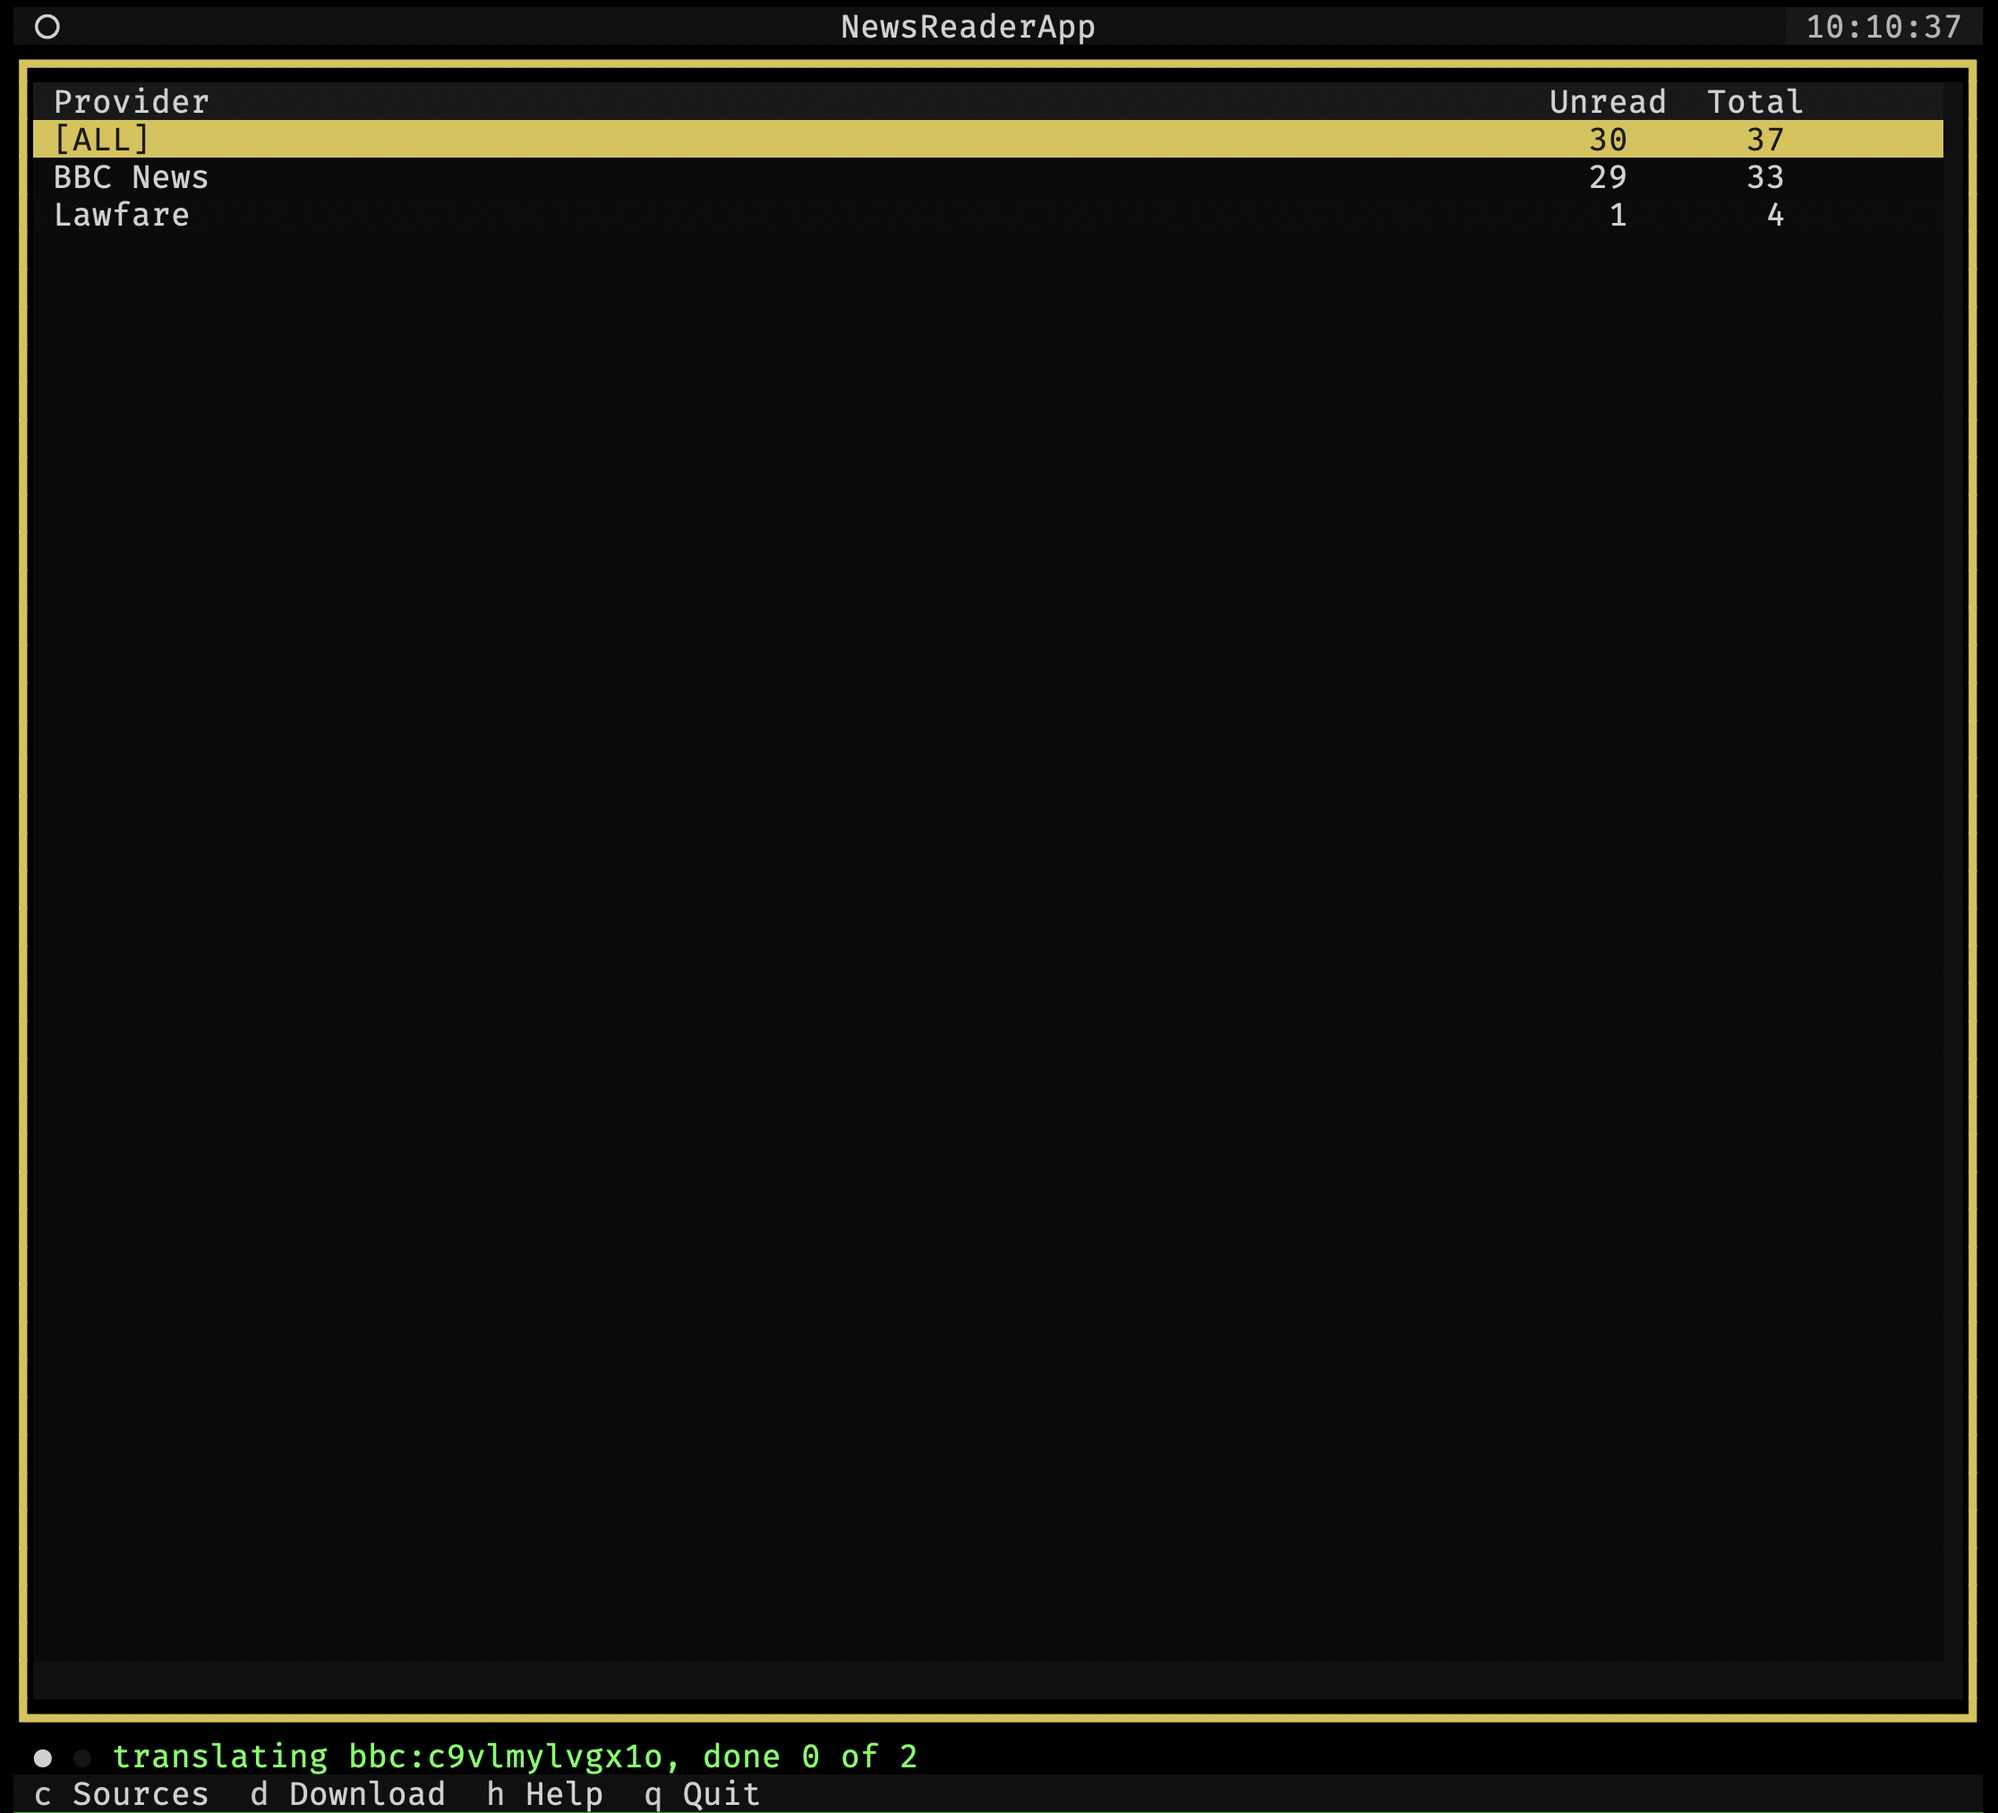
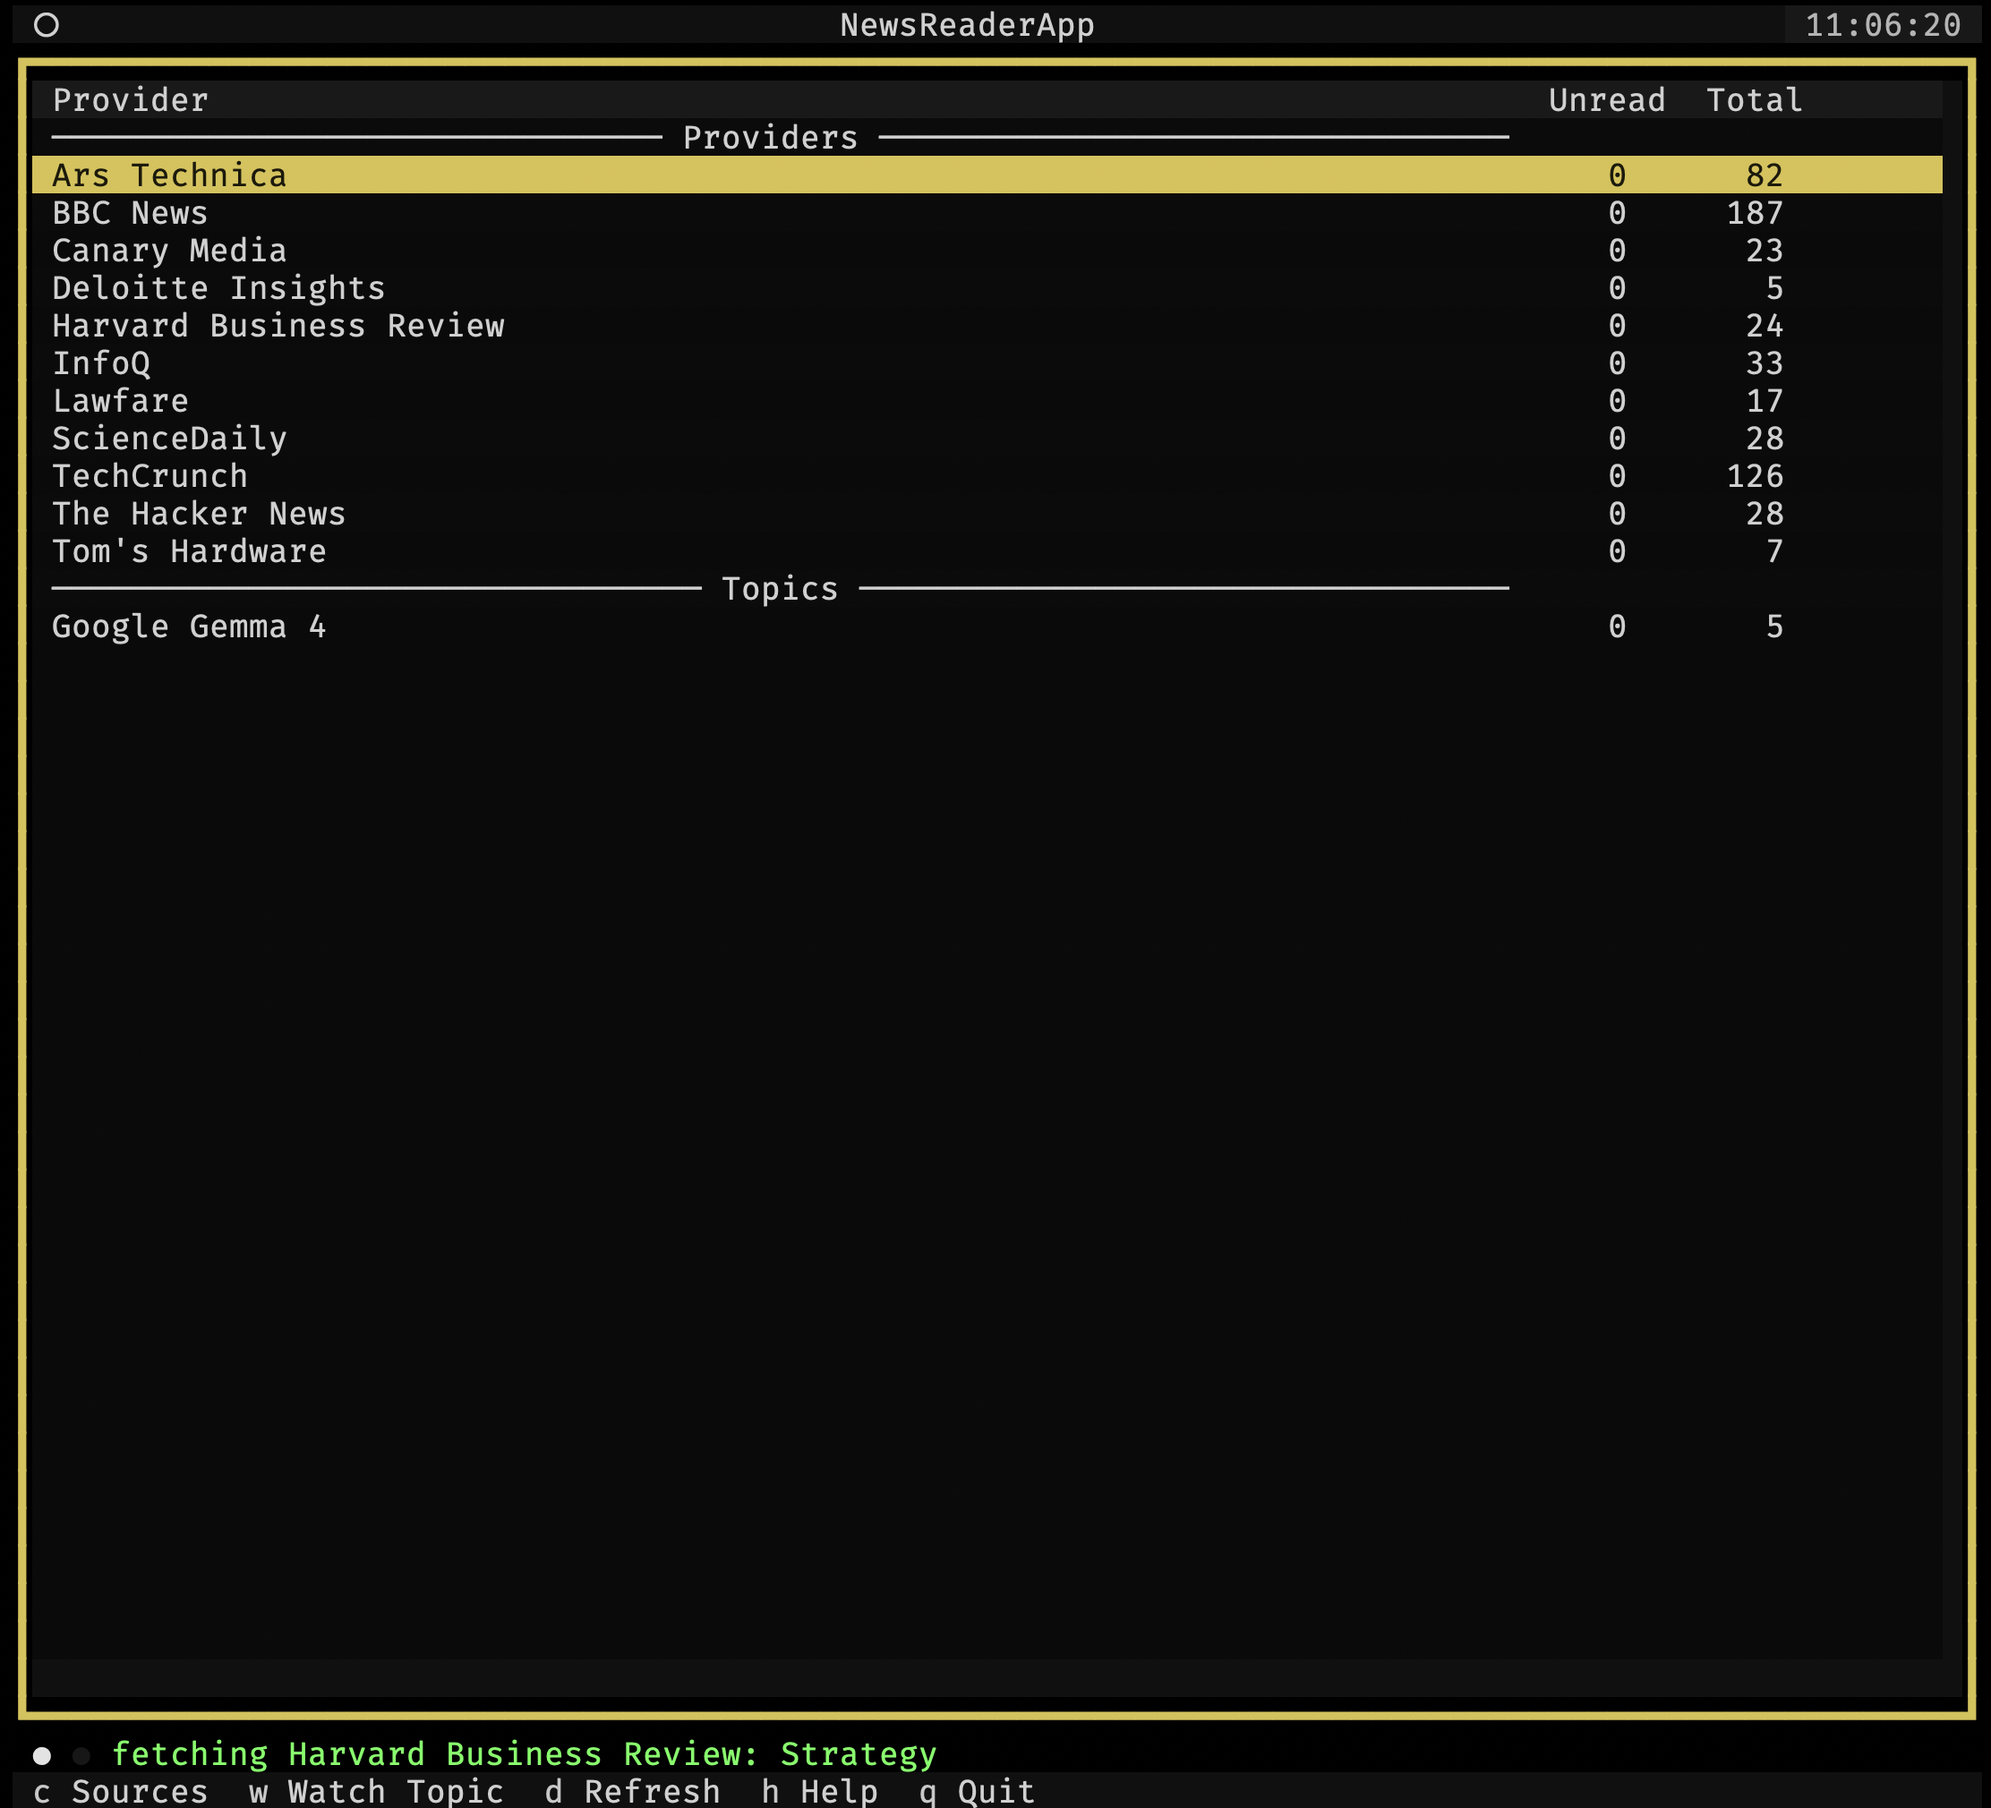
docs

diff --git a/docs/architecture.md b/docs/architecture.md
@@ -18,8 +18,8 @@ NewsR is a single-process local terminal application. It runs from the repositor
 - `newsr.export`: Markdown and PNG export services plus clipboard integration
 - `newsr.storage`: SQLite connection, schema setup, article persistence, provider/target persistence, permanent duplicate-id tracking, scoped reader state, and single-row global options. The `NewsStorage` facade delegates article methods to `ArticleStore` via `__getattr__` and defines provider, reader-state, options, and lifecycle methods explicitly.
 - `newsr.pipeline`: refresh orchestration that runs a scoped provider set, stores source content, classifies article categories, then runs translation and summary jobs
-- `newsr.ui`: the Textual app, themes, controllers, and modal screens for help, sources, quick navigation, export, article Q&A, open-link confirmation, and "more info"
-- `newsr.ui.controllers`: controller objects that encapsulate feature-specific state and logic — article Q&A, "more info", article rendering, navigation, provider home management, watched-topic creation, and background refresh — keeping the main `NewsReaderApp` class thin with forwarding methods
+- `newsr.ui`: the Textual app, themes, provider-home table, and modal screens for help, sources, quick navigation, export, article Q&A, watched-topic creation, open-link confirmation, retry/confirm prompts, free-text input, and "more info"
+- `newsr.ui.controllers`: controller objects that encapsulate feature-specific state and logic for article Q&A, article categorization, article rendering, navigation, provider home management, watched-topic creation, export, and background refresh, while the main `NewsReaderApp` stays focused on widget composition, thin forwarding methods for bindings/screen callbacks, `refresh_view()`, and lifecycle cleanup
 
 All network-facing providers use `cancellable_read` from `newsr.cancellation` for chunked HTTP reads with cooperative cancellation support.
 
@@ -28,8 +28,8 @@ Provider catalogs are not uniform. See [Current Providers](current_providers.md)
 ## Runtime Flow
 
 1. `newsr.app.main` first patches missing `ui.locale` into existing `newsr.yml` files when needed, then runs interactive first-run bootstrap only when `newsr.yml` does not exist yet.
-2. `NewsReaderApp` opens `cache/newsr.sqlite3`, initializes schema, builds the built-in HTTP provider registry, syncs built-in provider rows into SQLite, and rebuilds the live provider registry by adding any stored watched-topic providers.
-3. Bootstrap enables `bbc` by default and seeds each built-in provider's initial selected targets from `default_targets()`. Watched-topic providers are stored in SQLite as `provider_type = "topic"` rows with a single `watch` target that carries the saved topic query.
+2. `NewsReaderApp` opens `cache/newsr.sqlite3`, initializes schema, builds the built-in HTTP provider registry, and calls the provider-home bootstrap controller, which syncs built-in provider rows into SQLite and seeds provider targets when a provider has not been initialized yet.
+3. Bootstrap enables `bbc` by default and seeds each built-in provider's initial selected targets from `default_targets()`. Watched-topic providers are stored in SQLite as `provider_type = "topic"` rows with a single `watch` target that carries the saved topic query, and `rebuild_provider_registry()` adds them back into the live in-memory registry on startup.
 4. Startup prunes expired articles, restores the selected theme from global options, restores the `[ALL]` reader scope, loads cached articles, and opens the provider home as the app's home screen with enabled providers sorted by `ui.provider_sort`; the `[ALL]` row is included there when `ui.show-all` is `true`.
 5. The app starts a minute-based scheduler loop. When no refresh or LLM preflight is already running, the scheduler selects enabled providers whose effective cron schedule is due. `[ALL]` is a synthetic `provider_type = "all"` scope and is never selected as a real refresh target.
 6. Before each refresh session begins, the refresh controller sends a lightweight responsiveness probe to the configured LLM endpoint. If the probe fails, the UI shows a localized retry dialog and only starts the scoped refresh pipeline after the probe succeeds. The pipeline then walks the selected providers and their selected targets from SQLite, fetches candidates, skips article ids already present in the permanent duplicate table, extracts article bodies, stores source content, classifies each article into zero or more fixed app categories through the configured translation-model endpoint, translates both titles and bodies, generates summaries, and only then marks the article id as permanently known. Each article gets a single `articles.timeout` budget that covers fetch and all LLM stages. When that budget is exceeded, NewsR logs the timeout, deletes the partial article row, records the failed job state, and marks the article id as known. Permanent fetch-validation failures also mark the id as known.
@@ -42,7 +42,7 @@ Provider catalogs are not uniform. See [Current Providers](current_providers.md)
 
 ## Local State
 
-- `newsr.yml`: user config for refresh limits including `articles.timeout`, default provider update schedule, LLM endpoint/model settings, translation language, UI locale (`en` or `ru`), `[ALL]` provider-home visibility (`ui.show-all = true|false`), provider-home sorting (`ui.provider_sort.primary = unread|name`, `ui.provider_sort.direction = asc|desc`), and export quality
+- `newsr.yml`: user config for refresh limits including `articles.timeout`, default provider update schedule, LLM endpoint/model settings plus `llm.request_retries`, translation language, UI locale (`en` or `ru`), `[ALL]` provider-home visibility (`ui.show-all = true|false`), provider-home sorting (`ui.provider_sort.primary = unread|name`, `ui.provider_sort.direction = asc|desc`), and export image quality (`hd` or `fhd`)
 - `cache/newsr.sqlite3`: provider registry state, provider types, provider schedule overrides, discovered targets, selected targets, article source text, permanent known article ids, assigned article categories, translated text, summaries, job state, scoped reader state, and global options
 - `cache/newsr-llm.log`: request log for LLM calls
 - `exports/`: saved Markdown and PNG exports, created on demand

diff --git a/docs/add_provider.md b/docs/add_provider.md
@@ -15,7 +15,8 @@ That means the surrounding architecture is already multi-provider, and new provi
 - `src/newsr/domain/providers.py` defines `ProviderRecord` and `ProviderTarget`.
 - `src/newsr/storage/provider_store.py` persists providers, target catalogs, and selected targets in SQLite.
 - `src/newsr/pipeline/refresh.py` iterates enabled providers and selected targets generically.
-- `src/newsr/ui/app.py` bootstraps provider state and exposes source-management hooks to the UI.
+- `src/newsr/ui/controllers/provider_home.py` bootstraps built-in provider rows and default target selections, and owns provider-home/source-management state.
+- `src/newsr/ui/app.py` wires controllers together and keeps forwarding hooks for bindings and screen callbacks.
 - `src/newsr/ui/screens/categories.py` implements the generic source manager.
 
 Current built-ins show the intended range of provider behavior. See [Current Providers](current_providers.md) for the current built-in provider set and catalog behavior.
@@ -136,7 +137,7 @@ The registry is the only place where built-in providers should be wired together
 
 ### 7. Decide bootstrap defaults
 
-Startup bootstrapping happens in `NewsReaderApp._bootstrap_provider_state()` in `src/newsr/ui/app.py`.
+Startup bootstrapping happens in `ProviderHomeController.bootstrap()` in `src/newsr/ui/controllers/provider_home.py`.
 
 For each new provider decide:
 
@@ -181,7 +182,7 @@ For a typical provider, expect these touch points.
 ### Existing files likely to change
 
 - `src/newsr/providers/registry.py`
-- possibly `src/newsr/ui/app.py` if bootstrap defaults need adjustment
+- possibly `src/newsr/ui/controllers/provider_home.py` if bootstrap defaults need adjustment
 - possibly `docs/architecture.md` if the new provider changes the documented system shape
 
 ## Parsing Checklist

diff --git a/docs/topic_watch.md b/docs/topic_watch.md
@@ -5,11 +5,12 @@ Topic watch lets NewsR track an arbitrary topic as a virtual provider.
 ## Creating A Watched Topic
 
 - In provider home, press `W` to enter a topic name manually.
-- In the reader, press `W` to ask the configured LLM for a topic name derived from the current article, then edit or confirm it.
+- In the reader, press `W` to ask the configured LLM for a topic name derived from the current article, then edit or confirm the suggested value in the same dialog.
 - The creation dialog accepts an optional 5-field cron schedule. The dialog shows the configured `articles.update_schedule` value from `newsr.yml`, and leaving the field blank uses it.
 - If the saved watched-topic query already exists, NewsR does not create another provider and shows the status `topic already exists: {topic name}`.
 
 Each watched topic is stored as its own provider row with `provider_type = "topic"` and a single `watch` target carrying the saved topic query.
+Watched-topic providers appear in provider home alongside enabled HTTP providers, and the source manager can edit their per-provider schedule or delete them.
 
 ## Refresh Model
 

diff --git a/README.md b/README.md
@@ -278,6 +278,7 @@ Clipboard export support depends on the platform:
 
 - [Architecture](docs/architecture.md)
 - [Adding A Provider](docs/add_provider.md)
+- [Topic Watch](docs/topic_watch.md)
 
 ## License
 
